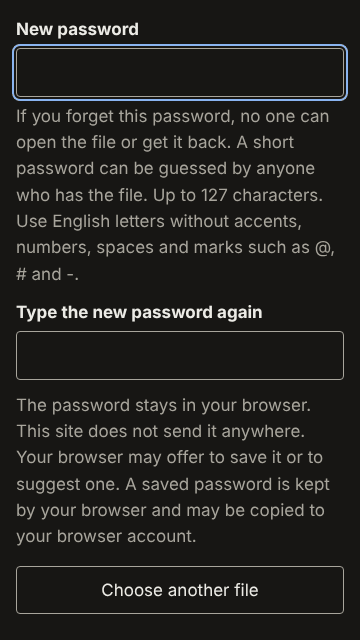
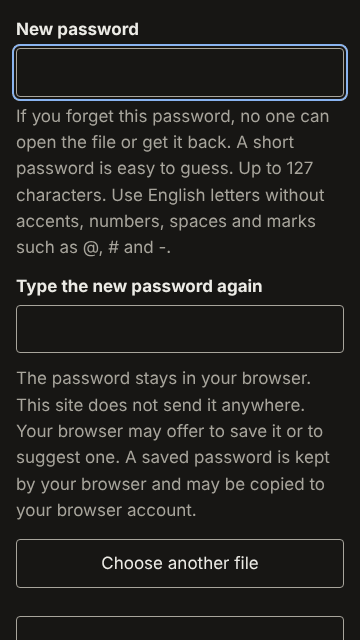
add-protect-pdf: shorter hint so the fields fit at 360px; fewer screenshots
The hint's second sentence becomes "A short password is easy to guess." in
the registry, the proposal, the design and the spec delta (coordinator's
decision): the hint now wraps to six lines at 360px and the second field's
label starts 176px under the first field, within the design's 200px. The page
text keeps its longer sentence. Owner question 2 names both wordings.

The pull request screenshots are cut to the 17 the coordinator chose, taken
again with the new hint (2.4 MB).

Claude-Session: https://claude.ai/code/session_01Ht5n4xeEVAutobXrc7qGtN

diff --git a/tests/unit/components.test.tsx b/tests/unit/components.test.tsx
@@ -898,7 +898,7 @@ describe("NewPasswordField with Protect's entry", async () => {
   if (option.kind !== 'new-password') throw new Error('Protect lists a new password first');
   // As the workspace draws it once the file is read: both fields empty.
   const html = renderToStaticMarkup(<NewPasswordField option={option} id="r7-pw" first="" again="" onType={noop} onEnter={noop} onFirstBlur={noop} />);
-  const hint = 'If you forget this password, no one can open the file or get it back. A short password can be guessed by anyone who has the file. Up to 127 characters. Use English letters without accents, numbers, spaces and marks such as @, # and -.';
+  const hint = 'If you forget this password, no one can open the file or get it back. A short password is easy to guess. Up to 127 characters. Use English letters without accents, numbers, spaces and marks such as @, # and -.';
 
   it('is the only option: "New password" and "Type the new password again", empty, the hint under the first and the note under the second', () => {
     expect(widget.options).toHaveLength(1);

diff --git a/tests/e2e/protect-pdf.spec.ts b/tests/e2e/protect-pdf.spec.ts
@@ -20,7 +20,7 @@ const fixture = (name: string) => join(here, '../fixtures', name);
 const oldPassword = 'open-sesame';
 const typed = 'Kv4 #%@ wq9';
 const hint =
-  'If you forget this password, no one can open the file or get it back. A short password can be guessed by anyone who has the file. Up to 127 characters. Use English letters without accents, numbers, spaces and marks such as @, # and -.';
+  'If you forget this password, no one can open the file or get it back. A short password is easy to guess. Up to 127 characters. Use English letters without accents, numbers, spaces and marks such as @, # and -.';
 const note =
   'The password stays in your browser. This site does not send it anywhere. Your browser may offer to save it or to suggest one. A saved password is kept by your browser and may be copied to your browser account.';
 const outputLimitSentence = 'The new file would be far larger than expected, so it was not made. The file may be damaged. Try another copy of it.';

diff --git a/src/tools/registry.ts b/src/tools/registry.ts
@@ -1049,7 +1049,7 @@ export const tools: Tool[] = [
           key: 'newPassword',
           label: 'New password',
           againLabel: 'Type the new password again',
-          hint: 'If you forget this password, no one can open the file or get it back. A short password can be guessed by anyone who has the file. Up to 127 characters. Use English letters without accents, numbers, spaces and marks such as @, # and -.',
+          hint: 'If you forget this password, no one can open the file or get it back. A short password is easy to guess. Up to 127 characters. Use English letters without accents, numbers, spaces and marks such as @, # and -.',
           emptySentence: 'Type a password first.',
           againSentence: 'Type the password again to check it.',
         },

diff --git a/openspec/changes/add-protect-pdf/proposal.md b/openspec/changes/add-protect-pdf/proposal.md
@@ -14,7 +14,7 @@ Protect with a password (`/protect-pdf`) is the next Phase 1 tool in catalogue o
   - The visitor picks one PDF. It is listed as one row (thumbnail of the first page, name, pages, size), as the other one-file tools list theirs.
 - **The new password is the job's input.** It uses `add-password-option`'s two hidden fields under the key `newPassword`: "New password" and "Type the new password again". Both start empty, and focus goes to the first once the file is read.
   - Its line in `optionPasswords` is 127 characters at most, printable ASCII.
-  - The hint under the first field reads: "If you forget this password, no one can open the file or get it back. A short password can be guessed by anyone who has the file. Up to 127 characters." It ends with the rule's own words.
+  - The hint under the first field reads: "If you forget this password, no one can open the file or get it back. A short password is easy to guess. Up to 127 characters." It ends with the rule's own words.
   - The main button, "Protect and download", waits until both fields hold the same password the rule takes, with the shared sentences.
 - **What the button does,** in the tool worker with qpdf: one call that opens the file and writes it again encrypted with 256-bit AES.
   - The file is opened with its old password, if it has one, through the existing password flow.
@@ -134,7 +134,7 @@ The agent's own choices, named in the pull request:
 
 New questions for the owner, each with the default used until answered:
 1. **Old restrictions.** Default: dropped, and the page says so. Keep them under the new password instead?
-2. **Where "A short password can be guessed by anyone who has the file." goes.** Default: in the hint, as its second sentence, and in the questions below the tool, but not in the result notes. Also put it in the result, or keep it out of the hint?
+2. **Where the short-password warning goes.** Default: in the hint, as its second sentence, in the short form "A short password is easy to guess." (so the hint fits the 200px limit at 360px), and in the questions below the tool as "A short password can be guessed by anyone who has the file.", but not in the result notes. Also put it in the result, or keep it out of the hint?
 
 No open decision needs more than its assumed default.
 

diff --git a/openspec/changes/add-protect-pdf/design.md b/openspec/changes/add-protect-pdf/design.md
@@ -55,7 +55,7 @@
             minFiles: 1, multiple: false, resultPages: 'input', items: 'files', itemControls: false, outputs: 'one',
             memoryAdvice: 'Try on a computer.',
             options: [{ kind: 'new-password', key: 'newPassword', label: 'New password', againLabel: 'Type the new password again',
-                        hint: 'If you forget this password, no one can open the file or get it back. A short password can be guessed by anyone who has the file. Up to 127 characters. Use English letters without accents, numbers, spaces and marks such as @, # and -.',
+                        hint: 'If you forget this password, no one can open the file or get it back. A short password is easy to guess. Up to 127 characters. Use English letters without accents, numbers, spaces and marks such as @, # and -.',
                         emptySentence: 'Type a password first.', againSentence: 'Type the password again to check it.' }],
             resultNotes: ['The file now opens only with the password you typed. Keep it somewhere safe: if it is forgotten, no one can open the file.',
                           'Pages, text, links, form fields, bookmarks and attached files are kept. Earlier saved versions stored inside the file are not, and a digital signature will no longer be valid.',
@@ -68,7 +68,7 @@
 - **The page sentence and meta description** say only what the site does: the file stays on the device, and the site uploads neither. Neither claims the password stays on the device, because the browser may offer to save it (UX U4, privacy M1, stage 1).
 - **The hint has four sentences,** in this order:
   1. the cannot-be-recovered sentence, carried forward from PR #28;
-  2. "A short password can be guessed by anyone who has the file." (UX U3, stage 1; owner question 2);
+  2. "A short password is easy to guess." (UX U3, stage 1; owner question 2), shortened from the page text's "A short password can be guessed by anyone who has the file." so the hint wraps to six lines at 360px and the second field's label starts within 200px (coordinator, while building);
   3. the limit;
   4. the rule.
 

diff --git a/openspec/changes/add-protect-pdf/specs/protect-pdf/spec.md b/openspec/changes/add-protect-pdf/specs/protect-pdf/spec.md
@@ -90,7 +90,7 @@ The new password SHALL be typed twice in two hidden fields, as every new passwor
 #### Scenario: Screen reader
 
 - **WHEN** a screen reader user reaches "New password"
-- **THEN** it is announced as a password field with its label, the hint saying the password cannot be recovered and a short one can be guessed, and the note that the password stays in the browser, though the note is shown under the second field
+- **THEN** it is announced as a password field with its label, the hint saying the password cannot be recovered and a short one is easy to guess, and the note that the password stays in the browser, though the note is shown under the second field
 
 #### Scenario: The engine is sent a password it does not accept
 
@@ -99,12 +99,12 @@ The new password SHALL be typed twice in two hidden fields, as every new passwor
 
 ### Requirement: The cannot-be-recovered warning
 
-The hint next to the first field SHALL say first that if the password is forgotten the file cannot be opened and no one can get it back, then that a short password can be guessed by anyone who has the file, then the length and the rule. (SPEC.md: What we are building, rule 4, "Honest about limits")
+The hint next to the first field SHALL say first that if the password is forgotten the file cannot be opened and no one can get it back, then that a short password is easy to guess, then the length and the rule. (SPEC.md: What we are building, rule 4, "Honest about limits")
 
 #### Scenario: The hint is read
 
 - **WHEN** the file has been read and the fields are shown
-- **THEN** the hint under "New password" begins "If you forget this password, no one can open the file or get it back. A short password can be guessed by anyone who has the file." and is part of the field's description
+- **THEN** the hint under "New password" begins "If you forget this password, no one can open the file or get it back. A short password is easy to guess." and is part of the field's description
 
 ### Requirement: Writing the protected file
 

diff --git a/openspec/changes/add-protect-pdf/tasks.md b/openspec/changes/add-protect-pdf/tasks.md
@@ -109,7 +109,7 @@ Built on `add-password-option` (PR #28), merged first. Two shared changes and on
 
 ## 8. End-to-end test
 
-- [ ] 8.1 Write `tests/e2e/protect-pdf.spec.ts`, at 360px and 1280px:
+- [x] 8.1 Write `tests/e2e/protect-pdf.spec.ts`, at 360px and 1280px:
   - **Choosing a file:**
     - one row, no summary line, no Remove;
     - "Getting ready" seen, with the engine's route held until it is checked;
@@ -189,7 +189,7 @@ Built on `add-password-option` (PR #28), merged first. Two shared changes and on
 ## 11. Checks and review
 
 - [x] 11.1 `LICENSES.md`: no change, as no dependency is added.
-- [ ] 11.2 Run lint, the type check, unit tests, the build, `weigh`, `check:worker`, `check:base`, end-to-end tests, `npm audit` and `npm run spec`. Verify each passes.
+- [x] 11.2 Run lint, the type check, unit tests, the build, `weigh`, `check:worker`, `check:base`, end-to-end tests, `npm audit` and `npm run spec`. Verify each passes.
 - [ ] 11.3 Add Protect's hand checks to issue #7:
   - the result opened with the password and refused without it, in Chrome, Firefox, Adobe Reader and macOS Preview;
   - browsers and phones, including each browser's offer to save or suggest the password, the "Next" and "Go" keys, and whether the on-screen keyboard opens when focus moves to the field;
